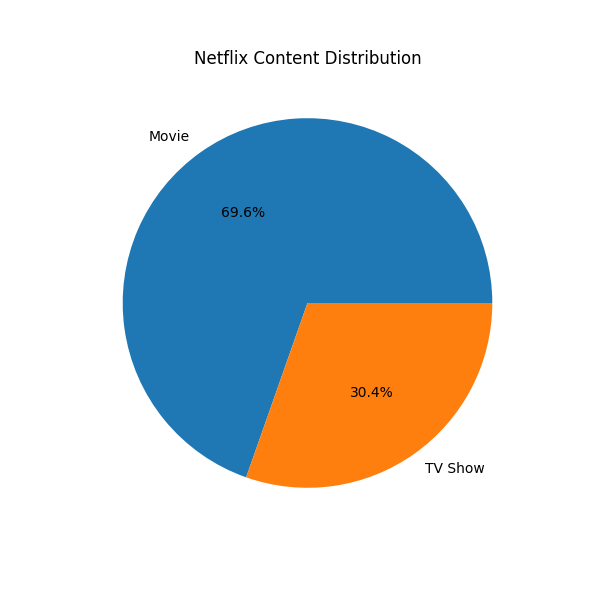
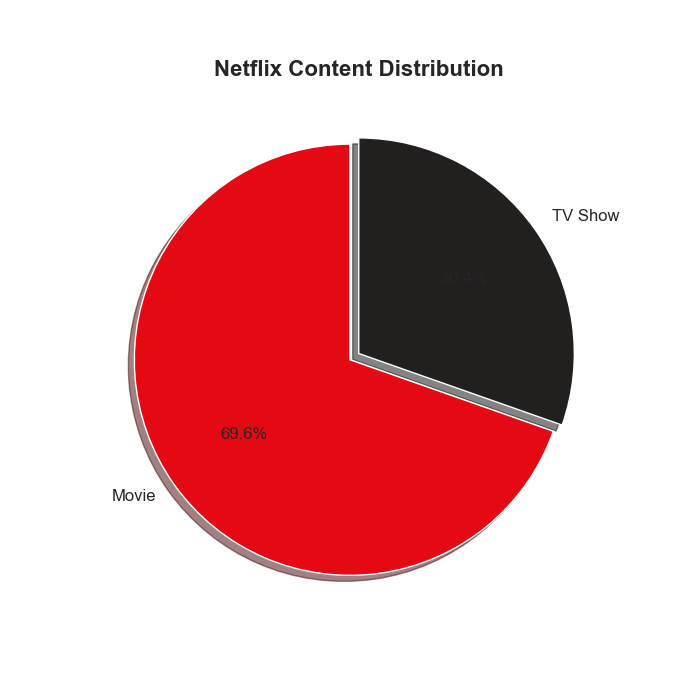
updated analysis

diff --git a/netflix_analysis.py b/netflix_analysis.py
@@ -2,6 +2,15 @@ import pandas as pd
 import matplotlib.pyplot as plt
 import seaborn as sns
 
+# Global style
+sns.set_style("darkgrid")
+
+# Better figure quality
+plt.rcParams['figure.figsize'] = (10,6)
+
+# Bigger fonts
+plt.rcParams['font.size'] = 12
+
 # Load dataset
 df = pd.read_csv("data/netflix_titles.csv")
 
@@ -27,15 +36,28 @@ print("\nMovies vs TV Shows:")
 print(type_counts)
 
 # Plot Pie Chart
-plt.figure(figsize=(6,6))
+colors = ['#E50914', '#221F1F']
+
+plt.figure(figsize=(7,7))
+
 plt.pie(
     type_counts,
     labels=type_counts.index,
-    autopct='%1.1f%%'
+    autopct='%1.1f%%',
+    colors=colors,
+    startangle=90,
+    shadow=True,
+    explode=[0.05, 0]
 )
 
-plt.title("Netflix Content Distribution")
+plt.title(
+    "Netflix Content Distribution",
+    fontsize=16,
+    fontweight='bold'
+)
+
 plt.savefig("visualization_generated/content_distribution.png")
+
 plt.show()
 
 # Top 10 Ratings